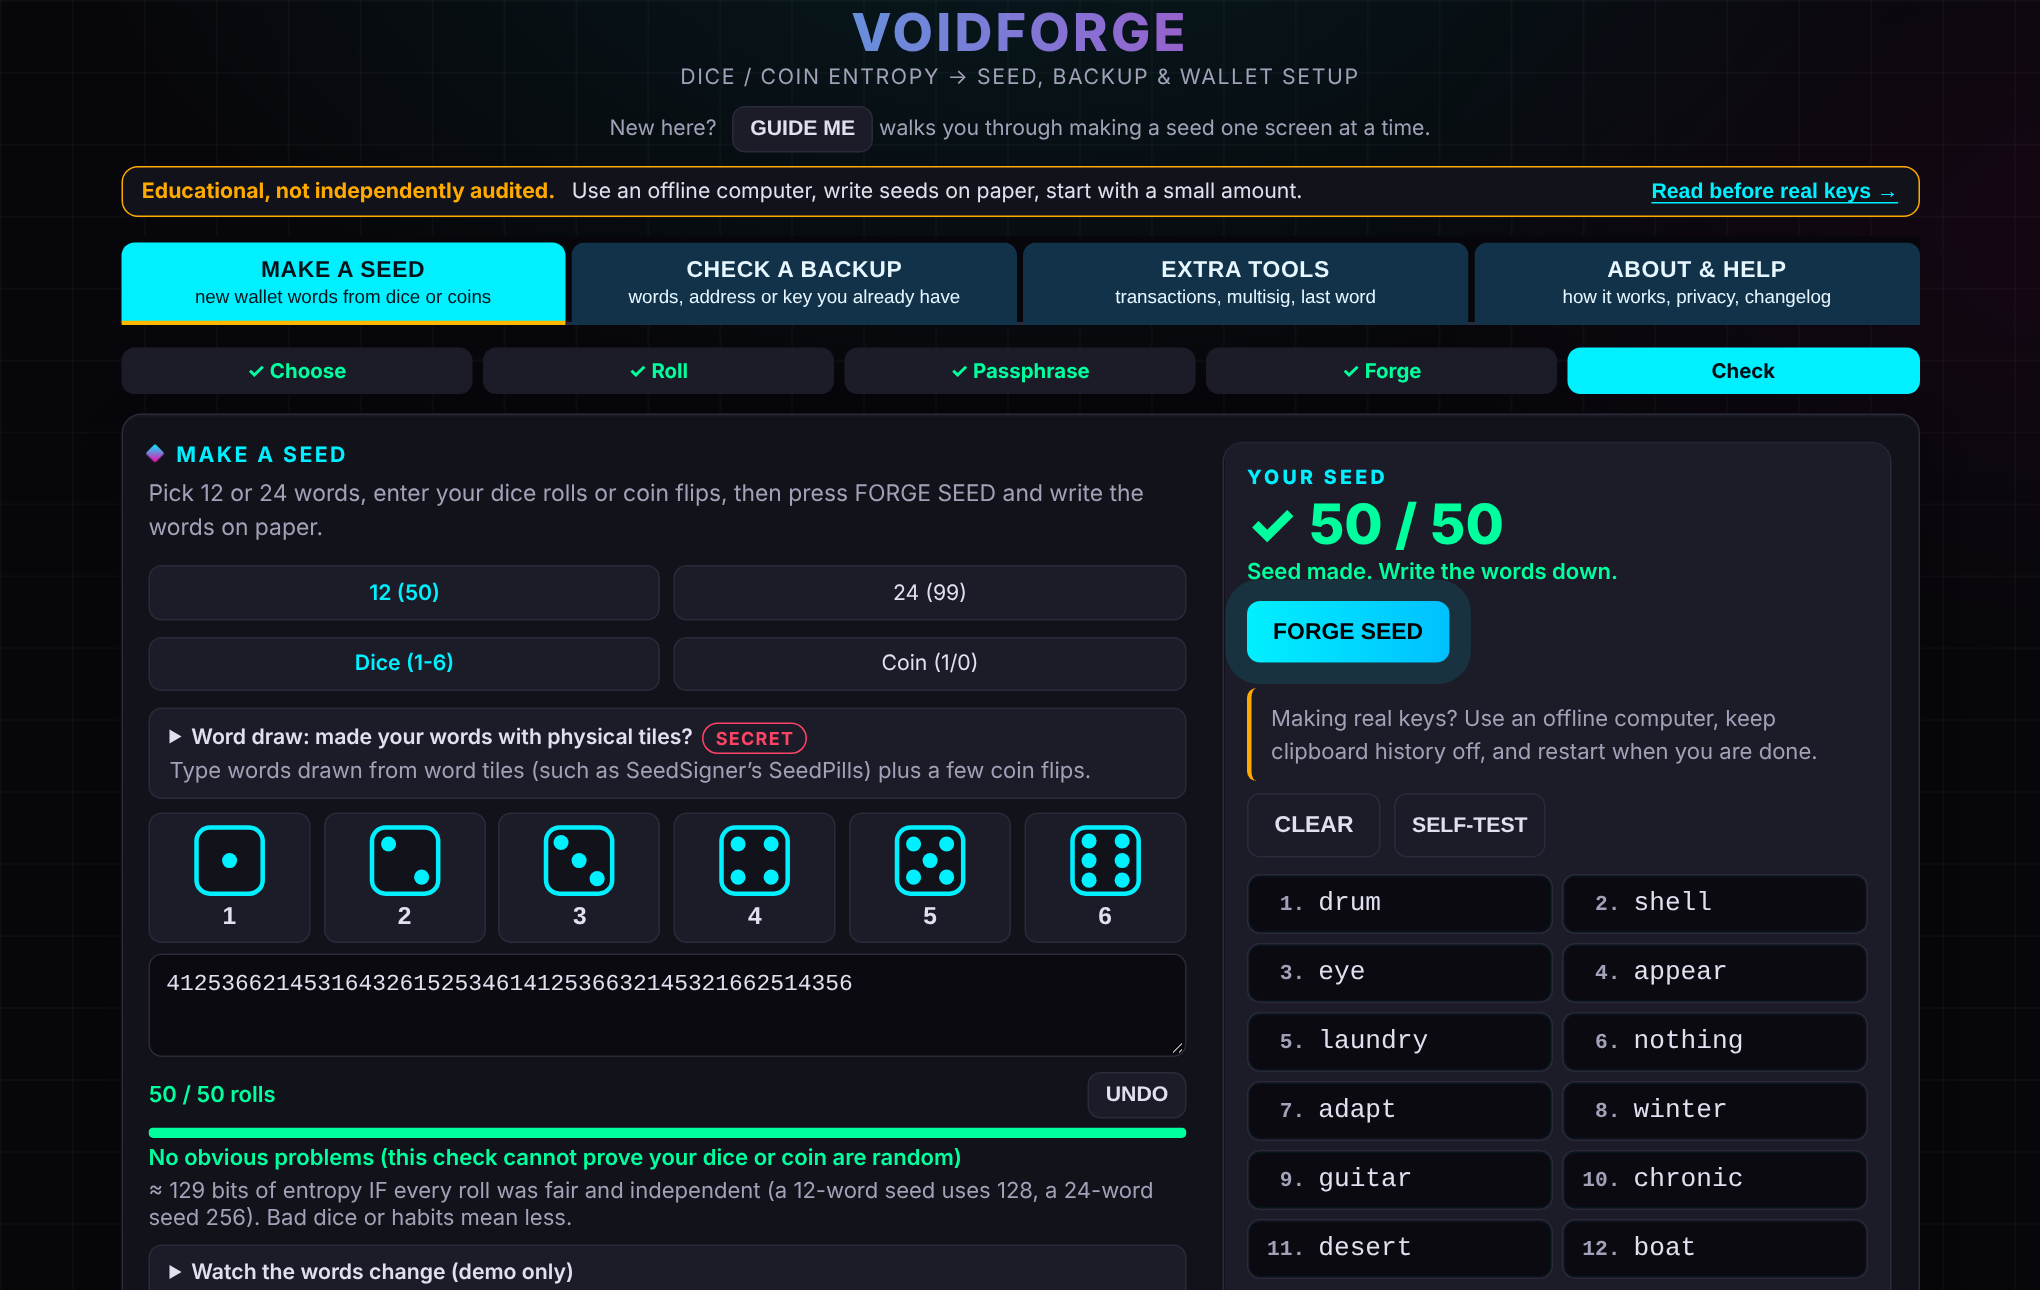
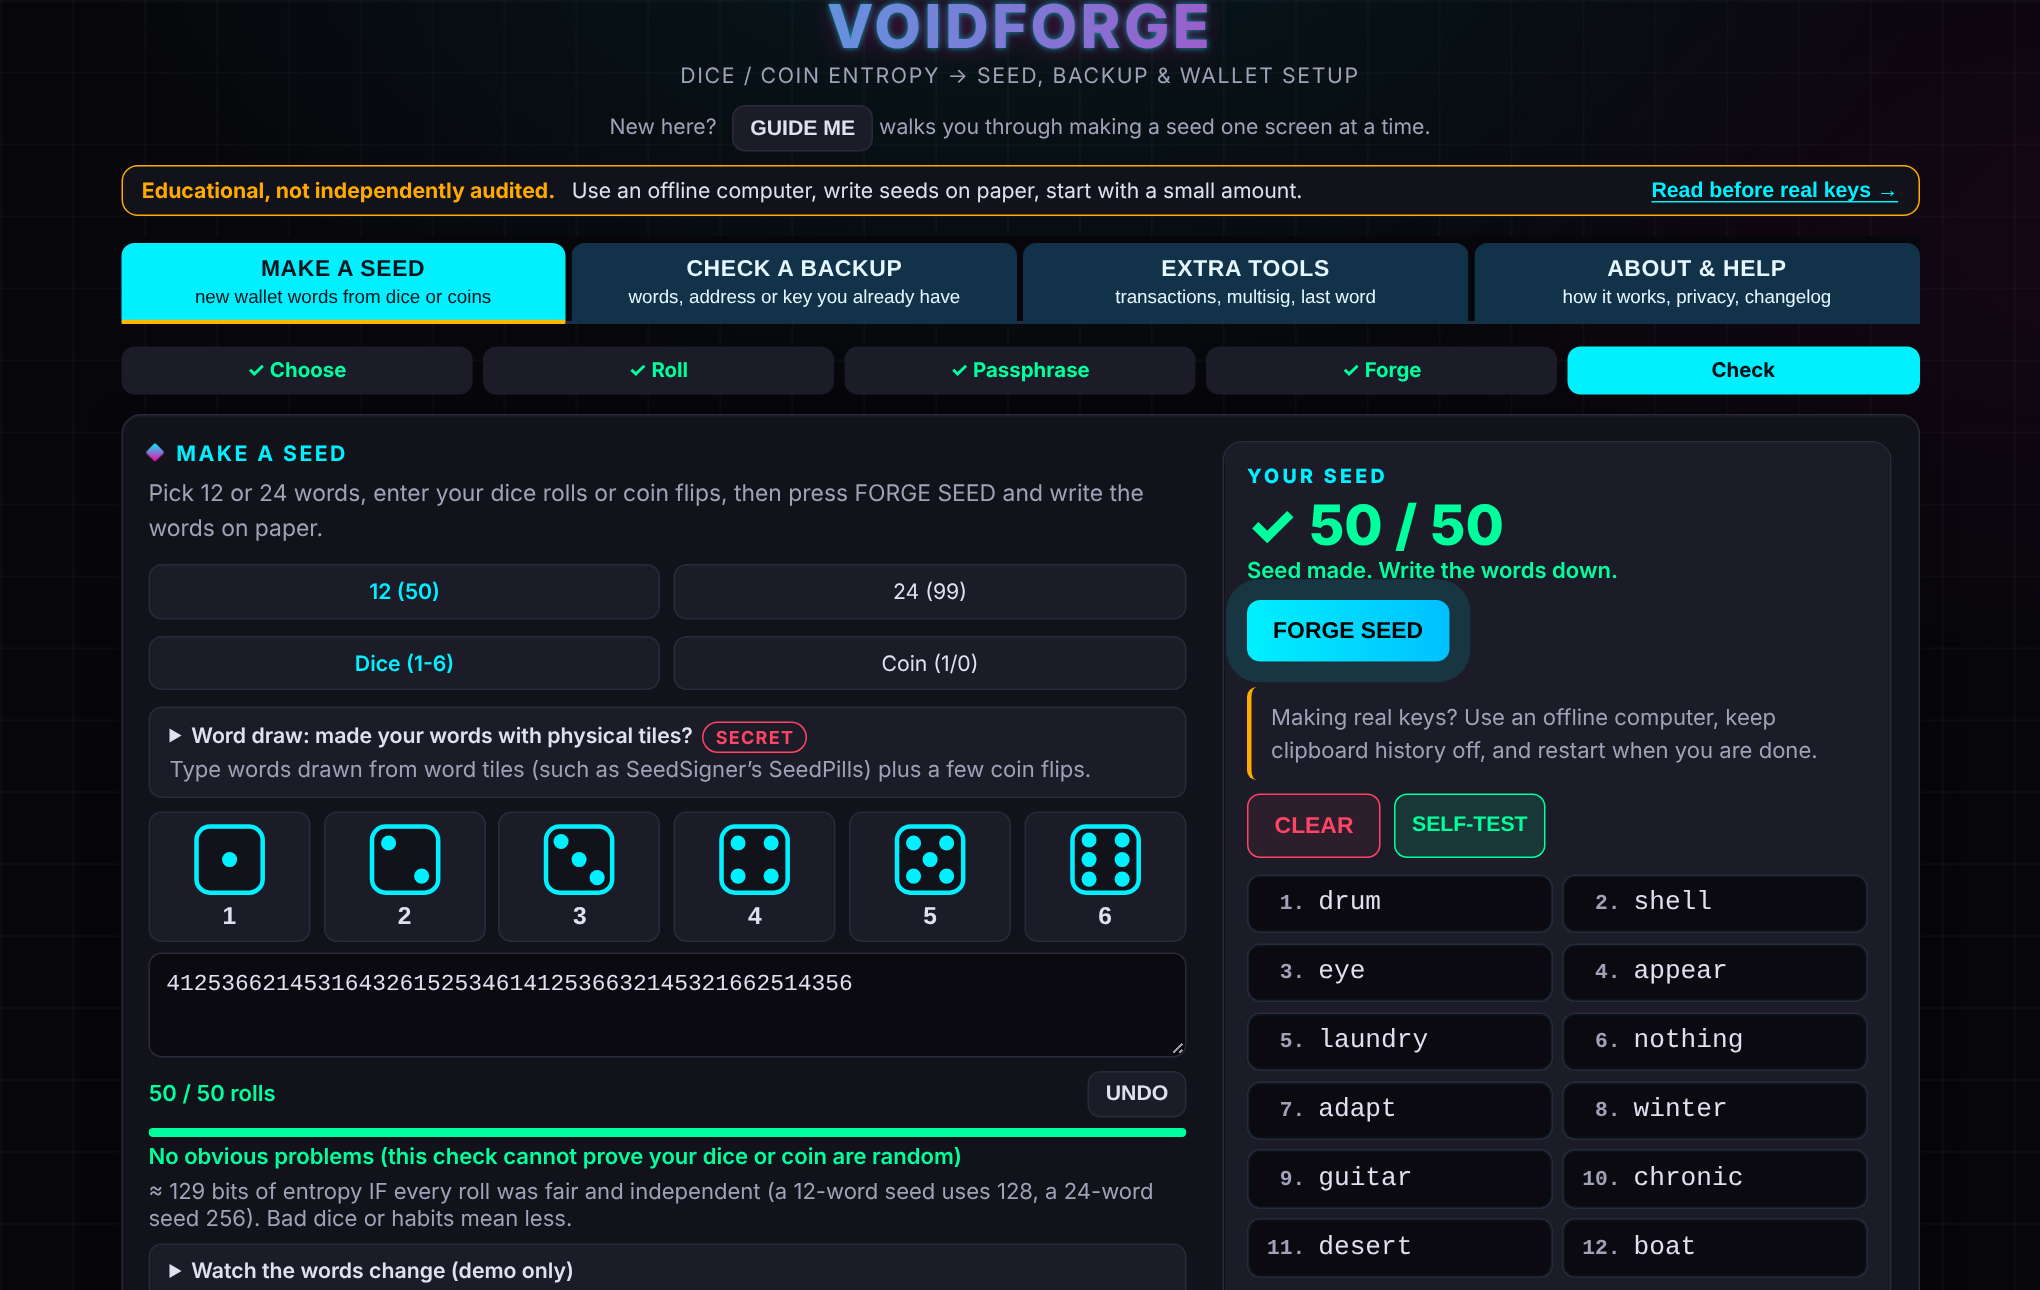
README: refreshed screenshots (3D dice header, Restore drill), wording, and a release checklist step to keep it current [skip ci]
Claude-Session: https://claude.ai/code/session_01SBEEw2u93rx8hPidsd4H75

diff --git a/README.md b/README.md
@@ -14,13 +14,15 @@ Get <code>voidforge.html</code> and <code>SHA256SUMS</code> from the release pag
 
 ## What it looks like
 
-<p align="center"><img src="docs/screenshots/1-start.png" alt="The VOIDFORGE start screen: neon dice, the Make a seed tab, and the offline status check" width="760"></p>
+<p align="center"><img src="docs/screenshots/1-start.png" alt="The VOIDFORGE start screen: three neon 3D dice above the VOIDFORGE title, the Make a seed tab, and the offline status check" width="760"></p>
 
 <p align="center"><img src="docs/screenshots/3-seed.png" alt="A practice seed after FORGE SEED: 50 dice rolls entered, the entropy check, and the 12 words" width="760"></p>
 
 <table align="center"><tr>
 <td align="center"><img src="docs/screenshots/2-guide.png" alt="GUIDE ME walks through the steps one at a time, with an EXIT GUIDE button" width="370"><br><sub>GUIDE ME, one step at a time</sub></td>
 <td align="center"><img src="docs/screenshots/4-watch-only.png" alt="The watch-only box with the public key, first five addresses and descriptors" width="370"><br><sub>Watch-only keys and first five addresses</sub></td>
+</tr><tr>
+<td align="center" colspan="2"><img src="docs/screenshots/6-restore-drill.png" alt="The Restore drill: the words are hidden and you type them back from your paper; a short answer is reported as wrong" width="560"><br><sub>Restore drill: type the words back from your paper (it never shows you the right word)</sub></td>
 </tr></table>
 
 <p align="center"><img src="docs/screenshots/5-phone.png" alt="VOIDFORGE on a phone screen" width="260"><br><sub>On a phone: good for learning and practice, not for real funds.</sub></p>
@@ -61,7 +63,7 @@ VOIDFORGE is free software provided **"as is", without warranty of any kind** (s
 
 **Browser testing:** automated tests run in Chromium. v1.7.0, v1.8.0, v1.8.1, v1.9.0, v1.10.0, v1.10.1 and v1.11.0 were checked by hand in Firefox and Safari on a desktop computer (self-test badge, dice buttons, watch-only box, QR codes and, in v1.8.0, the fingerprint picture all worked; v1.5.0 also matched the published dice example). v1.7.1 only added disclaimer text, and v1.8.1 only changed one message and the release process. v1.9.0 added the roll chart. v1.10.0 added the five-address list, the 4-letter view and the check guide. The watch-only QR was scanned into Blue Wallet on a phone and worked (same first receiving address as VOIDFORGE; a zpub import shows no master fingerprint by design, while the descriptor does). The descriptors were imported into Sparrow Wallet, and the fingerprint picture matched what Sparrow shows for four wallets. The maintainer reports that later releases, up to v1.18.0, also work in Firefox and Safari on a desktop computer (reported by hand, without a per-version checklist). Electrum and Nunchuk have not been tested. Please report anything odd in other browsers. The page needs Safari 14 or newer. Phones are not supported.
 
-**Coin flips:** decide which side is 1 and which is 0 (the usual choice is heads = 1, tails = 0), use it for every flip, and keep the exact 1/0 string with your backup. Only the string is hashed, so any consistent choice works, but the mapping cannot be recovered from the words.
+**Coin flips:** decide which side is 1 and which is 0 (the usual choice is heads = 1, tails = 0, and the two tap buttons are drawn as gold coins that way), use it for every flip, and keep the exact 1/0 string with your backup. Only the string is hashed, so any consistent choice works, but the mapping cannot be recovered from the words.
 
 - **Restore drill:** after FORGE, a card in the Check step hides the words on screen and has you type them back from your paper. It reports which word positions are wrong (never what the right word is), checks the passphrase if there is one, and shows the master fingerprint your paper rebuilds. Changing or clearing the seed ends the drill, and nothing is stored.
 - **First 5 addresses and a check guide:** after FORGE the first five receiving addresses are listed (with COPY ALL) and a short guide explains how to compare them in a second wallet app. Comparing five addresses is much stronger than comparing one.

diff --git a/RELEASING.md b/RELEASING.md
@@ -23,6 +23,9 @@ gh attestation verify voidforge.html --repo Random21m/voidforge     # needs the 
 `CID.txt` holds the same check as a content ID (CIDv1, raw, sha2-256), the format IPFS-style tools use. It is a second, independent way to confirm the file: compute it yourself with the one-line command in step 3 above and compare it with `CID.txt`.
 The attestation proves the file came from this repository's release workflow at a specific commit. It does not prove the code is safe; that depends on review. Verify the file you downloaded, not the copy saved by the in-page "DOWNLOAD FOR USB" button (the browser re-serializes the page, so its hash differs).
 
+## README refresh (every release)
+Before the final candidate commit, regenerate the README screenshots from the new build (a practice seed only) and re-read the README text so it describes what the page does now: new or changed screens get a picture, retired wording is removed, and nothing in the pictures is older than the release.
+
 ## Current build
[1 lines of base64/hex data omitted]
 Content ID (CIDv1): `bafkreiaqqwfen2at643juqsjpfbkyccp2p7424wzfms3ntqkommt6lyzuu`
